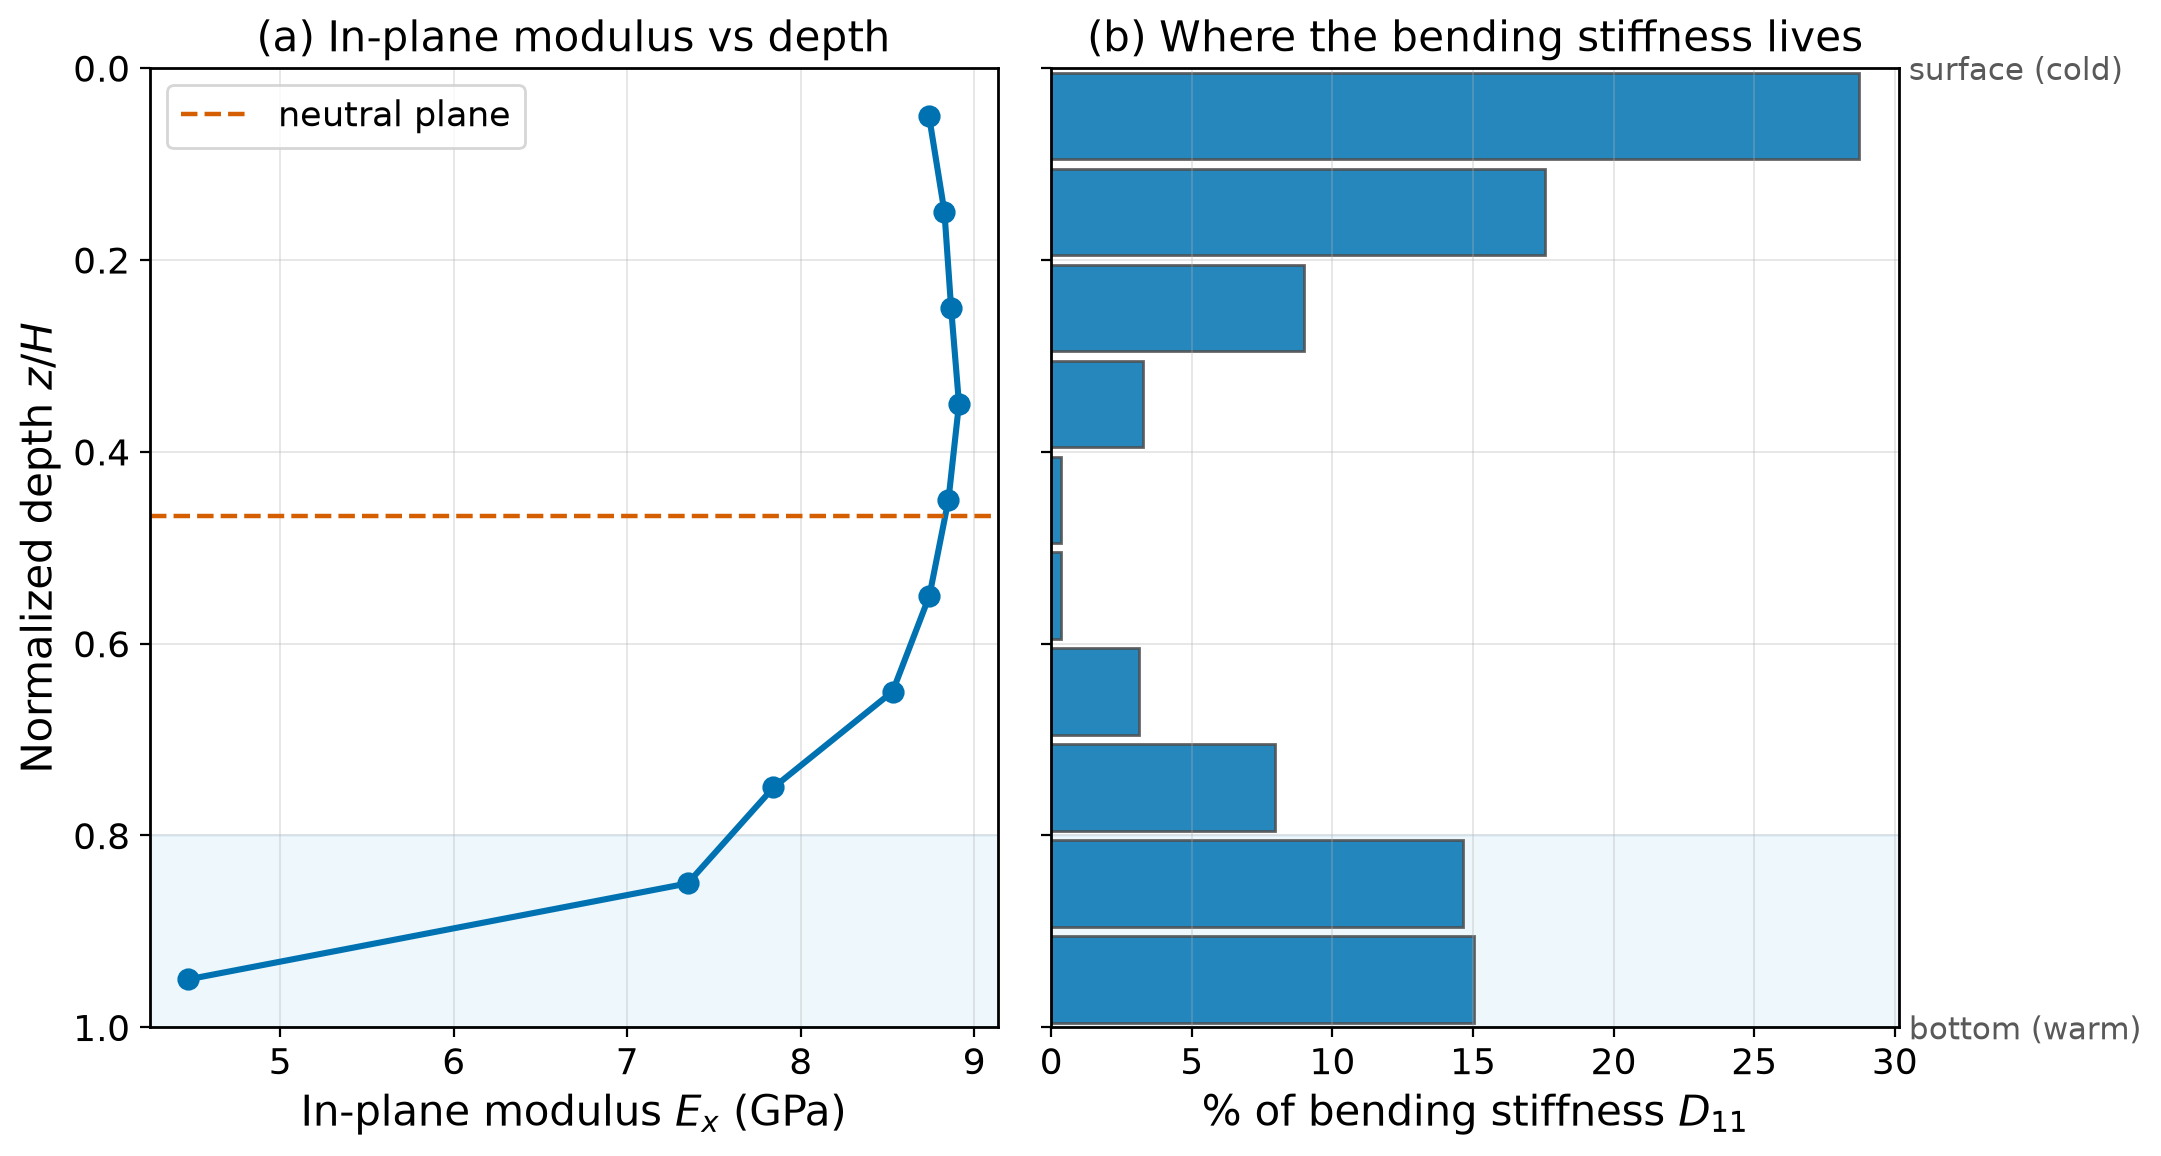
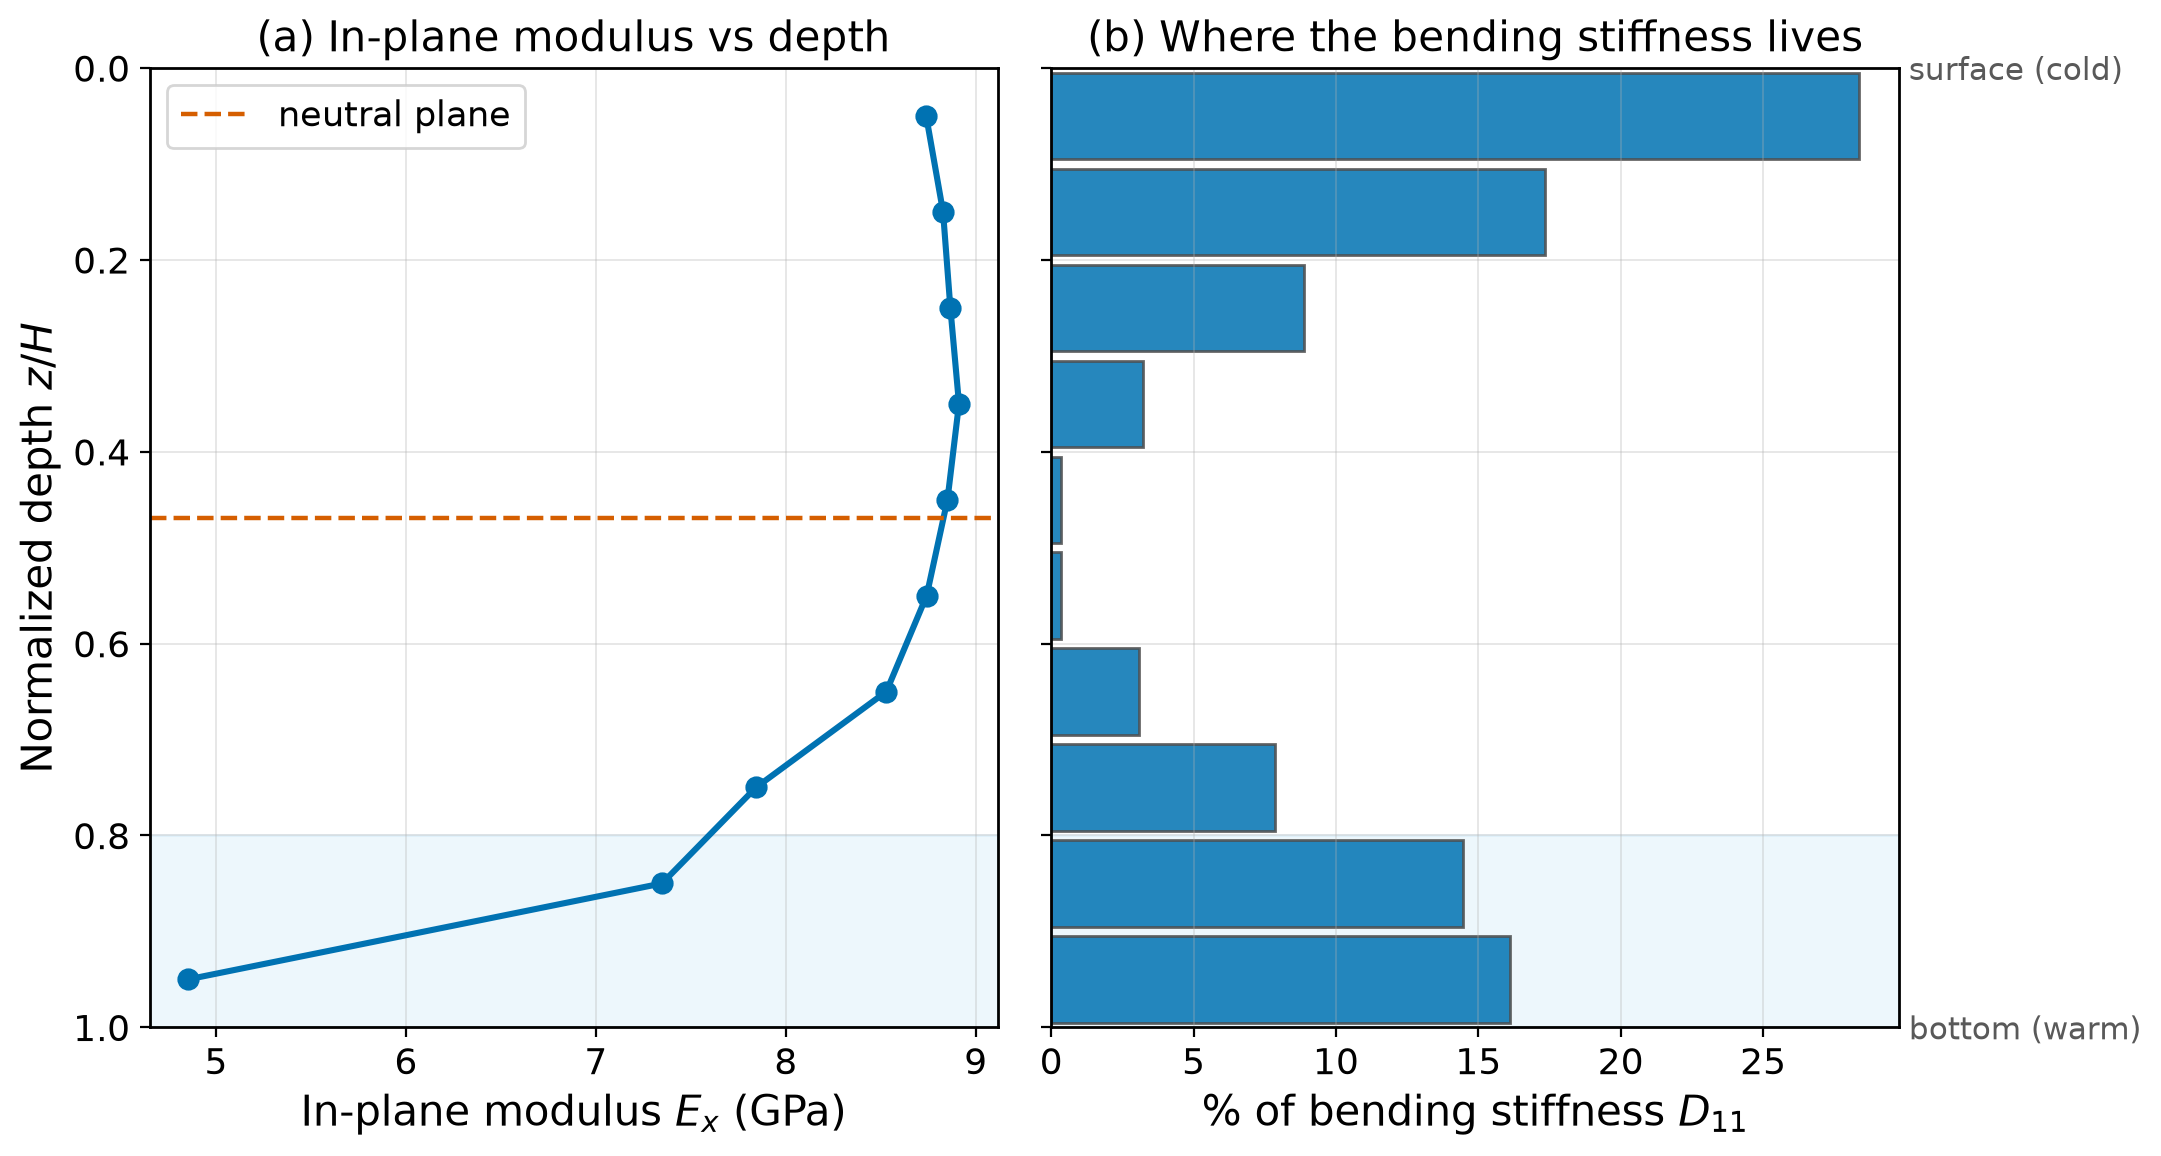
macro_plate: build the CLT column on the re-centred base, not the outlier
results_macro_plate.csv was computed from results_column.csv, whose base
slice (4.47 GPa) the five-packing replicate campaign later showed to be a
~6 sigma low outlier. Every profile in the paper reports the base as the
4.85 GPa ensemble mean, so the macro model was the one place still built on
the discarded packing.

recentre_column.py rebuilds the column with the base layer taken from the
independent full-tensor sweep, whose base E_x (4.853 GPa) agrees with the
five-packing mean to 0.1% and supplies the E_y and G_xy the two-load-case
replicates do not carry. Scaling the original base row by the ensemble
ratio instead moves B/sqrt(AD) by <1e-4, so the choice is immaterial.

Effect on the reported plate results:
  E_flex   7.446 -> 7.540 GPa
  E_ext    8.113 -> 8.152 GPa
  ratio    0.918 -> 0.925
  neutral plane offset  3.3% -> 3.1% toward the cold top
  B/sqrt(AD)            0.120 -> 0.111

diff --git a/analysis/recentre_column.py b/analysis/recentre_column.py
@@ -1,0 +1,55 @@
+#!/usr/bin/env python3
+"""Build the re-centred depth column used by the laminated-plate macro model.
+
+The base slice of results_column.csv (z/H=0.95) comes from a single packing that
+the five-packing replicate campaign later showed to be a ~6 sigma low outlier
+(4.47 GPa against a 4.85 +/- 0.07 GPa ensemble mean, see results_colseeds.csv).
+Every profile in the paper therefore reports the base as the ensemble mean, and
+the macro model has to use the same column or it is built on the outlier.
+
+The replicate campaign solved only the x and z load cases, so it carries no E_y
+or G_xy for the base layer. The independent full-tensor sweep does: its base
+slice returns E_x = 4.853 GPa, within 0.1% of the five-packing mean, so its row
+supplies a consistent, fully-solved base layer rather than a scaled guess.
+(Scaling the original base row by the ensemble ratio instead changes B/sqrt(AD)
+by less than 0.0001, so the choice is immaterial -- it is made this way because
+every number then comes from a real six-load-case solve.)
+
+Usage: python3 recentre_column.py results_column.csv results_coltensor.csv out.csv
+"""
+import csv
+import sys
+
+
+def main():
+    if len(sys.argv) != 4:
+        print(__doc__)
+        return 1
+    col_path, tensor_path, out_path = sys.argv[1:4]
+
+    with open(col_path) as f:
+        rows = list(csv.DictReader(f))
+        fields = rows[0].keys()
+    rows.sort(key=lambda r: r['run_id'])
+
+    with open(tensor_path) as f:
+        base = [r for r in csv.DictReader(f) if abs(float(r['z']) - 0.95) < 1e-6][0]
+
+    # replace the base layer in place; only the fields the macro model reads
+    tgt = rows[-1]
+    for key in ('E_x', 'E_y', 'E_z', 'G_xy'):
+        tgt[key] = base[key]
+    if 'E_eff' in tgt:
+        tgt['E_eff'] = base['E_x']
+
+    with open(out_path, 'w', newline='') as f:
+        w = csv.DictWriter(f, fieldnames=list(fields))
+        w.writeheader()
+        w.writerows(rows)
+    print("wrote %s (base layer %s -> E_x=%.4g Pa from the full-tensor sweep)"
+          % (out_path, tgt['run_id'], float(base['E_x'])))
+    return 0
+
+
+if __name__ == '__main__':
+    sys.exit(main())
